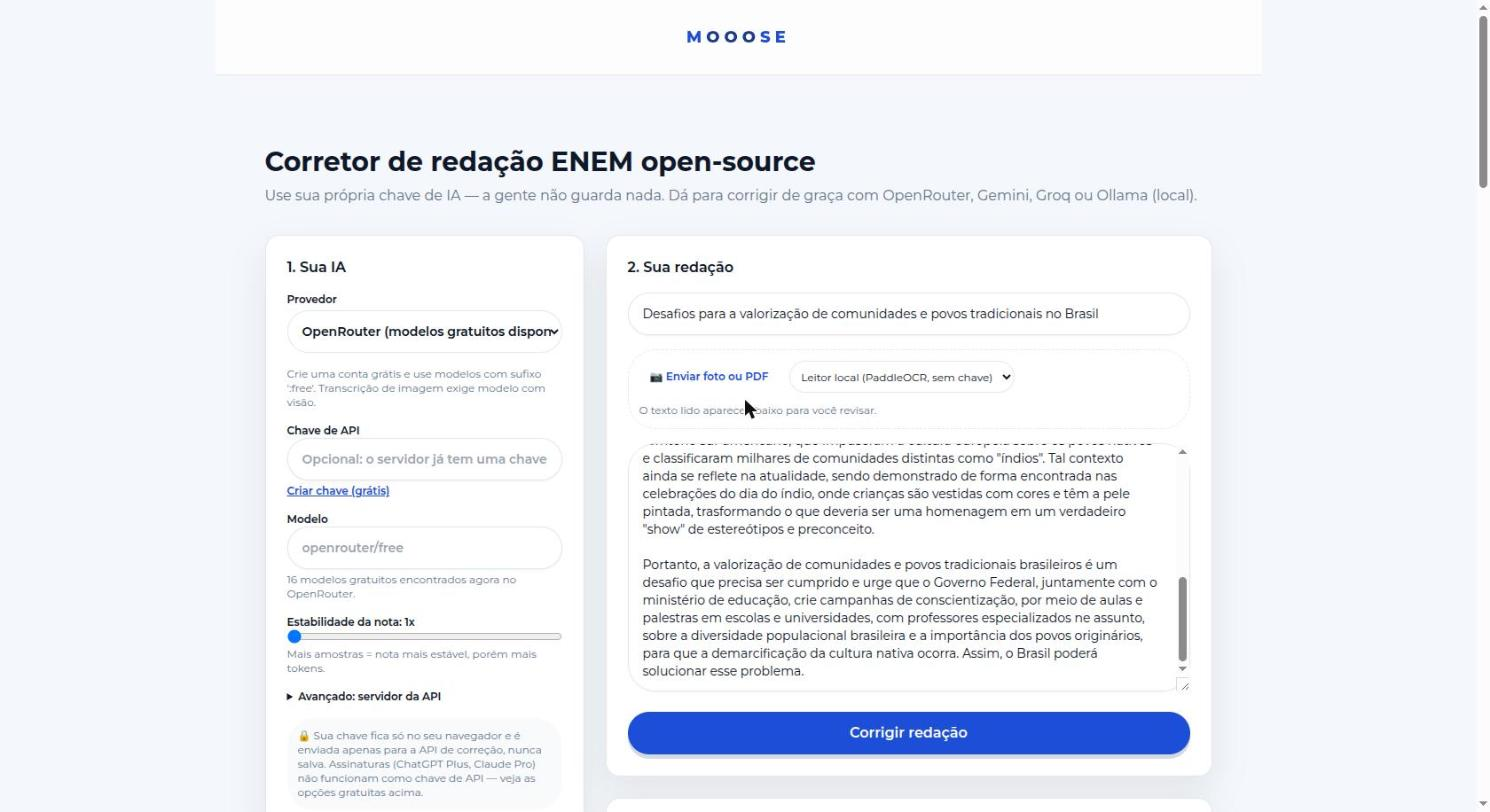
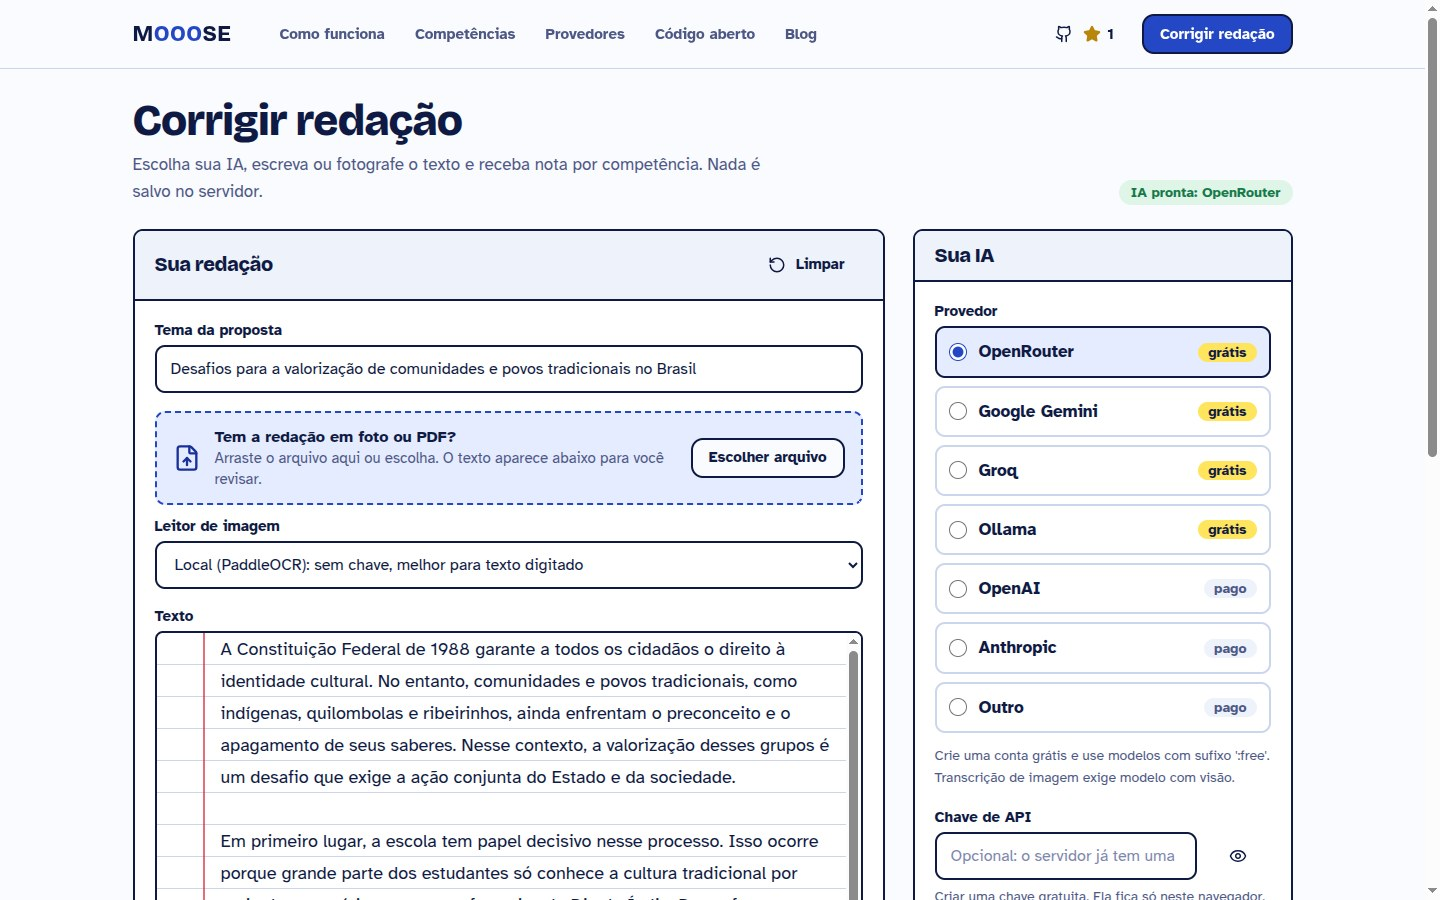
Refresh README screenshots, link the project page, add launch guide

diff --git a/docs/LAUNCH.md b/docs/LAUNCH.md
@@ -1,0 +1,36 @@
+# Guia de divulgação
+
+Checklist para quem mantém o projeto. Divulgação boa é constante e honesta: mostre o que funciona, o que falta e como ajudar.
+
+## Antes de postar
+- [ ] README com prints reais, GIF de 20 s do fluxo (foto → nota) e o comando de instalação no topo
+- [ ] Página do projeto no ar e link no campo *Website* do repositório
+- [ ] 5 a 10 issues abertas e marcadas `good first issue` / `help wanted`, cada uma com contexto e arquivo sugerido
+- [ ] GitHub Discussions ligado, com uma thread fixa "Apresente-se e conte como você usa"
+- [ ] Imagem de preview social enviada (Settings → Social preview: `promo/assets/og.png`)
+- [ ] Topics do repositório: `enem`, `redacao`, `llm`, `langgraph`, `ollama`, `openrouter`, `education`
+
+## Onde postar (e como)
+| Canal | Formato | Dica |
+|---|---|---|
+| X/Twitter | Thread: problema → demo (GIF) → como rodar → como ajudar | Poste de manhã, responda todos os comentários na primeira hora |
+| LinkedIn | História: por que criou + decisões técnicas (LangGraph, regras em código, evals) | Marque quem ajudou; fale de aprendizados, não só de features |
+| TabNews / r/brdev | "Show": como construí um corretor de ENEM open-source | Seja específico sobre limites (modelos grátis erram mais) |
+| Hacker News | `Show HN:` em inglês, link para o repo | Terça a quinta, 9h a 11h (horário de Nova York) |
+| dev.to / Medium | Artigo técnico: "Como calibrar notas de LLM com regras determinísticas" | Reaproveite os diagramas de `docs/ARCHITECTURE.md` |
+| Professores e cursinhos | Mensagem direta + vídeo curto | Peça redações já corrigidas (com consentimento) para o dataset |
+
+## Rascunhos
+**X (thread, 1/4):** Abri o código do Mooose: um corretor de redação do ENEM open-source. Você traz a IA (tem opção grátis e até local com Ollama) e recebe nota por competência. 🧵
+
+**LinkedIn:** Passei meses construindo um corretor de redação do ENEM e hoje abri o código. O que tem por dentro: 5 corretores em paralelo (LangGraph), regras do ENEM em código testado, nota da C5 por checklist e um script de avaliação. Falta um dataset de redações corrigidas por humanos: se você é professor(a) de redação, quero conversar.
+
+## Como transformar curiosos em contribuidores
+1. **Responda rápido** (em até 24 h) a toda issue e PR; o primeiro contato define se a pessoa volta.
+2. **Issues pequenas e claras** ganham de issues grandes e vagas. Diga qual arquivo mexer.
+3. **Agradeça em público** no changelog e no README (a seção de contribuidores já é automática).
+4. **Mostre o impacto**: poste números reais (correções feitas, redações no dataset).
+5. **Contribuição não-código conta**: testar modelos, revisar a rubrica, traduzir, divulgar.
+
+## Medindo
+Estrelas por semana, visitas únicas ao repo (Insights → Traffic), clones, issues abertas por pessoas novas e PRs mesclados de quem nunca contribuiu.

diff --git a/README.md b/README.md
@@ -10,12 +10,14 @@
 
 # 🫎 Mooose — corretor de redação do ENEM, open-source
 
+<p align="center"><b><a href="https://mooose.matheussilvano.workers.dev">Página do projeto</a></b> · <a href="#-rodando-em-2-minutos">Rodar</a> · <a href="CONTRIBUTING.md">Contribuir</a> · <a href="https://github.com/sponsors/matheussilvano">Apoiar</a></p>
+
 **Mooose** corrige redações no padrão do **ENEM** (as 5 competências, notas de 0 a 200 cada) e explica *como melhorar*. Agora é **100% open-source**: você roda o código, **traz a sua própria IA** e não paga mensalidade para ninguém — dá para corrigir **de graça**.
 
 > ⚠ Projeto independente, **sem vínculo com o INEP/MEC**. A nota é uma *estimativa* de IA para estudo, não uma nota oficial.
 
 <p align="center">
-  <img src="docs/assets/landing.jpg" alt="Landing page do Mooose" width="880">
+  <img src="docs/assets/landing.jpg" alt="Landing page do Mooose" width="900">
 </p>
 <table>
   <tr>
@@ -84,7 +86,8 @@ curl -X POST localhost:8000/v1/grade \
 ```
 backend/    API FastAPI + motor de IA (mooose_ai/) + API aberta BYOK (mooose_api/) + evals
 frontend/   React + Vite + Tailwind  (página /corrigir = corretor open-source)
-docs/       arquitetura, provedores, roadmap
+promo/      página estática de divulgação (Cloudflare)
+docs/       arquitetura, provedores, roadmap, divulgação
 legacy/     primeira landing page (arquivada)
 ```
 O backend também contém o módulo *hosted* original (contas, créditos, pagamentos, admin) que alimenta o [mooose.com.br](https://mooose.com.br). Para self-host você só precisa de `mooose_api` + `mooose_ai`.
@@ -98,7 +101,9 @@ Toda ajuda é bem-vinda — de estudante a engenheiro de IA. Veja o [CONTRIBUTIN
 - 🎨 UX da página `/corrigir`, acessibilidade, modo escuro
 - 🌍 Revisão da rubrica por professores de redação
 
-Procure as issues com `good first issue`.
+Procure as issues com [`good first issue`](https://github.com/matheussilvano/mooose/issues?q=is%3Aopen+label%3A%22good+first+issue%22). Quem já contribuiu:
+
+<a href="https://github.com/matheussilvano/mooose/graphs/contributors"><img src="https://contrib.rocks/image?repo=matheussilvano/mooose" alt="Contribuidores"></a>
 
 ## ❤ Apoie o projeto
 

diff --git a/README.en.md b/README.en.md
@@ -1,6 +1,8 @@
 
 # 🫎 Mooose — the open-source ENEM essay grader
 
+<p align="center"><b><a href="https://mooose.matheussilvano.workers.dev">Project page</a></b> · <a href="CONTRIBUTING.md">Contribute</a> · <a href="https://github.com/sponsors/matheussilvano">Sponsor</a></p>
+
 **Mooose** grades essays for **ENEM** (Brazil's national high-school exam) across its 5 official competencies (0–200 each) and tells students *how to improve*. It is fully open source: **bring your own LLM** (OpenRouter free models, Gemini free tier, Groq, local Ollama, OpenAI, Claude, any OpenAI-compatible API) and grade for free.
 
 > Independent project, **not affiliated with INEP/MEC**. Scores are AI estimates for practice.
